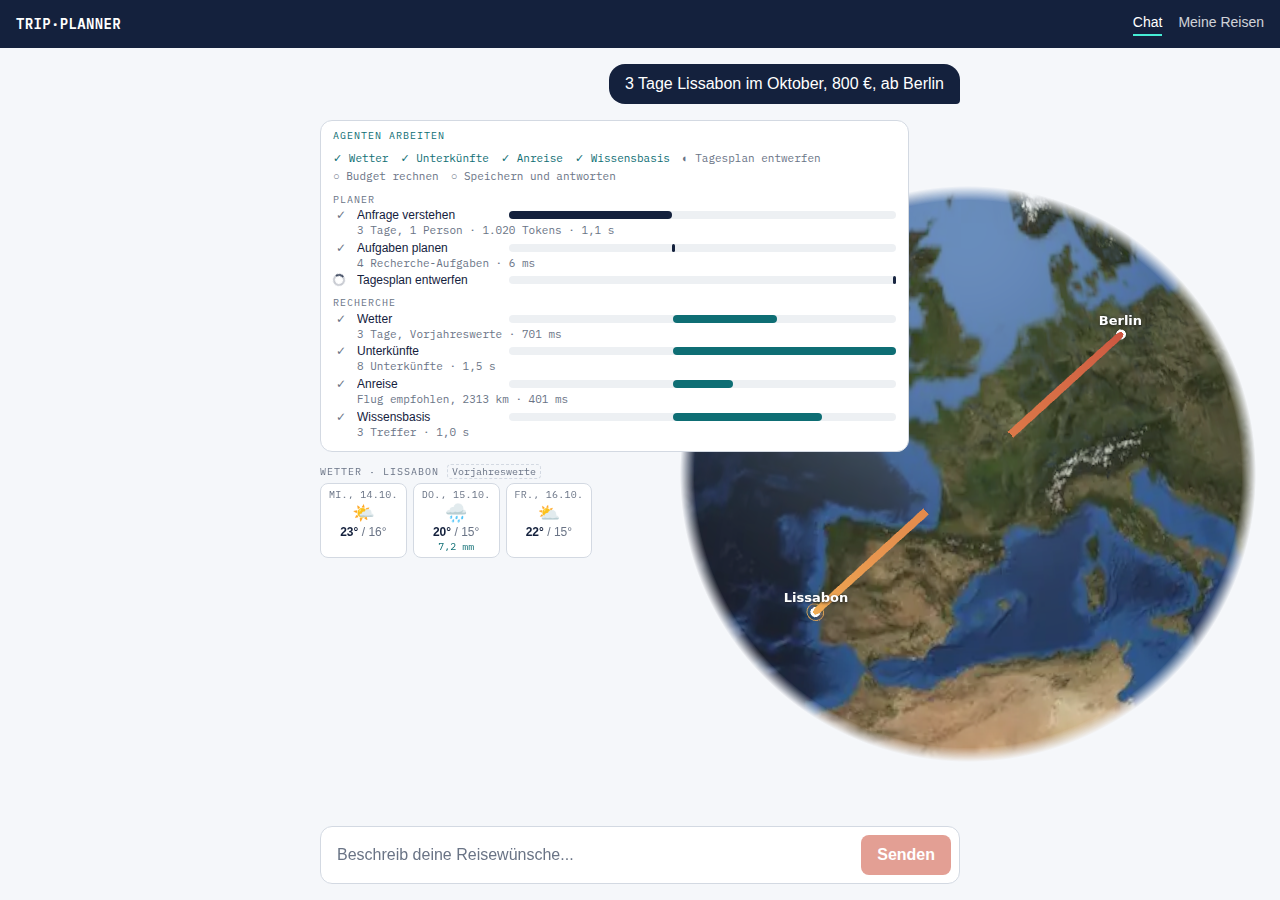
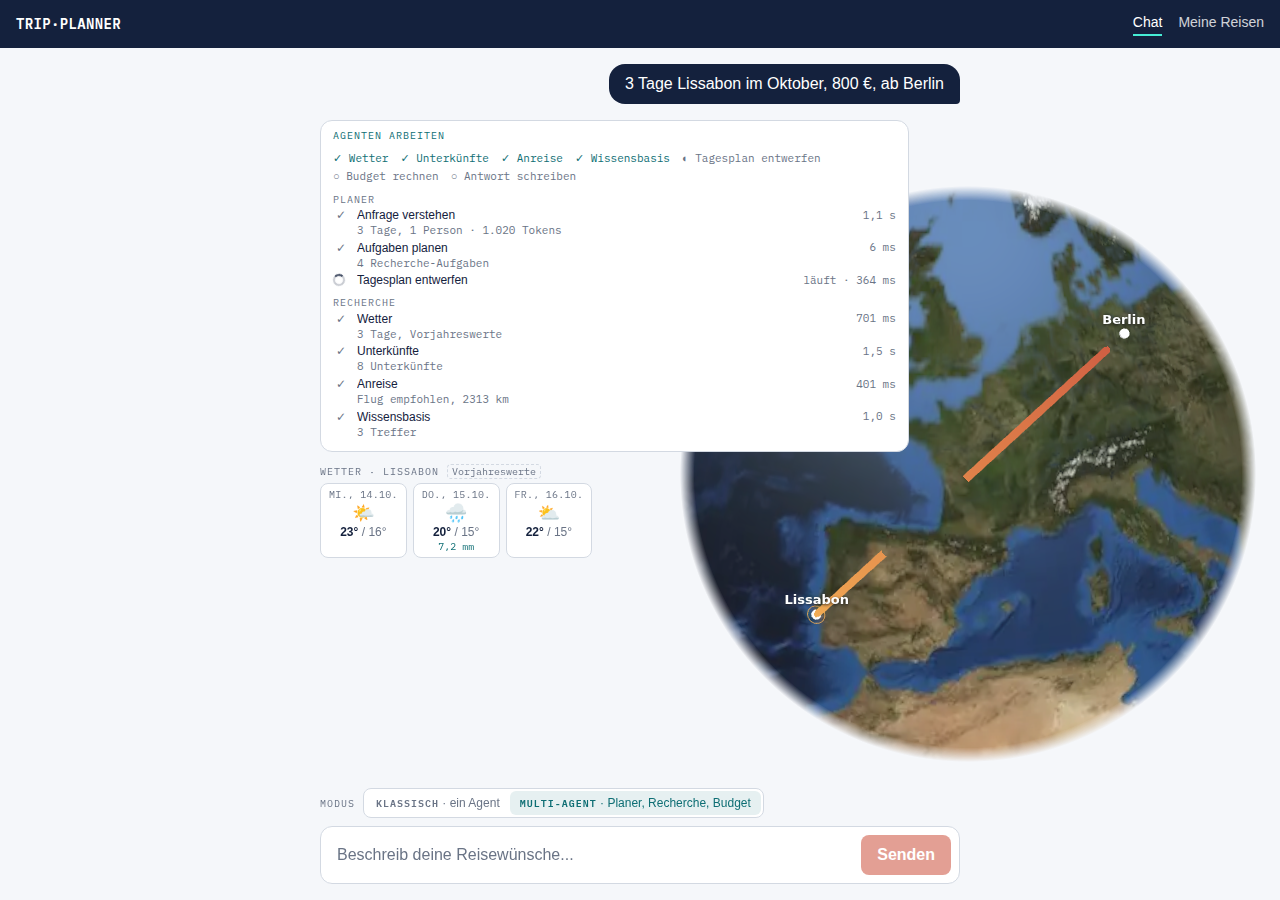
fix(web): Live-Ansicht der Agenten ohne Fortschrittsbalken, mit echter Laufzeit
Die Live-Balken waren relativ zur wachsenden Laufzeit skaliert: Auch
fertige Aufgaben (Wetter nach 0,7 s) schrumpften und rutschten weiter, und
laufende täuschten einen Fortschritt vor, den niemand kennt. Das wirkte
wie eine Simulation. Live zeigt jede Aufgabe jetzt nur Status und echte
Zeit: läuft (Spinner, hochzählende Sekunden) oder fertig (feste Dauer).
Den Wasserfall gibt es weiter im eingeklappten Ablauf nach dem Lauf, wo
er sich nicht mehr ändert.

Claude-Session: https://claude.ai/code/session_018TV5r7TAR1UubrmDdnqWhx

diff --git a/apps/web/src/components/trace-panel.tsx b/apps/web/src/components/trace-panel.tsx
@@ -101,19 +101,33 @@ const AGENT_BAR_COLORS: Record<AgentName, string> = {
   budget: 'bg-amber-500',
 };
 
-function barDetails(bar: LaneBar) {
+// Live steht die Dauer rechts in der Zeile, im Ablauf hier in den Details
+function barDetails(bar: LaneBar, withDuration = true) {
   const parts: string[] = [];
   if (bar.step.summary) parts.push(bar.step.summary);
   if (bar.tokens > 0) parts.push(`${numberFormat.format(bar.tokens)} Tokens`);
-  if (bar.step.durationMs !== undefined) parts.push(formatMs(bar.step.durationMs));
+  if (withDuration && bar.step.durationMs !== undefined) parts.push(formatMs(bar.step.durationMs));
   return parts.join(' · ');
 }
 
-// Wasserfall im Multi-Agenten-Modus: eine Lane pro Agent, ein Balken pro
-// Aufgabe, relativ zur Laufzeit. Die Recherche-Aufgaben laufen gleichzeitig
-// und stehen deshalb als überlappende Balken untereinander.
-function AgentLanes({ run, nowMs }: { run: RunState; nowMs?: number }) {
+// Multi-Agenten-Modus: eine Lane pro Agent, eine Zeile pro Aufgabe.
+// Live zeigt jede Zeile nur, was wir wirklich wissen: läuft (mit hochzählender
+// Zeit) oder fertig (mit ihrer Dauer). Einen Fortschrittsbalken gibt es live
+// bewusst nicht: Wie weit ein KI-Aufruf ist, kennt niemand, und ein relativ
+// zur wachsenden Laufzeit skalierter Balken würde auch fertige Aufgaben
+// weiter schrumpfen lassen. Nach dem Lauf, wenn sich nichts mehr ändert,
+// zeigt der Ablauf den Wasserfall: gleichzeitige Recherchen überlappen.
+function AgentLanes({
+  run,
+  nowMs,
+  live = false,
+}: {
+  run: RunState;
+  nowMs?: number;
+  live?: boolean;
+}) {
   const { lanes } = agentLanes(run, nowMs);
+  const now = Math.max(run.lastMs, nowMs ?? 0);
   if (lanes.length === 0) return null;
   return (
     <div className="space-y-2 py-1" aria-label="Agenten">
@@ -136,14 +150,26 @@ function AgentLanes({ run, nowMs }: { run: RunState; nowMs?: number }) {
                   <span className={`w-36 shrink-0 truncate ${bar.step.status === 'error' ? 'text-stamp' : ''}`}>
                     {TASK_LABELS[bar.step.task] ?? bar.step.task}
                   </span>
-                  <span className="relative h-2 flex-1 rounded-full bg-rule/40">
-                    <span
-                      className={`absolute top-0 h-2 rounded-full transition-[left,width] duration-150 ease-linear motion-reduce:transition-none ${bar.step.status === 'error' ? 'bg-stamp' : AGENT_BAR_COLORS[lane.agent]} ${bar.step.status === 'running' ? 'animate-pulse' : ''}`}
-                      style={{ left: `${bar.leftPct}%`, width: `${bar.widthPct}%` }}
-                    />
-                  </span>
+                  {live ? (
+                    <span className="ml-auto shrink-0 font-mono text-[11px] tabular-nums text-dim">
+                      {bar.step.status === 'running'
+                        ? `läuft · ${formatMs(Math.max(0, Math.round(now - bar.step.startedMs)))}`
+                        : bar.step.durationMs !== undefined
+                          ? formatMs(bar.step.durationMs)
+                          : ''}
+                    </span>
+                  ) : (
+                    <span className="relative h-2 flex-1 rounded-full bg-rule/40">
+                      <span
+                        className={`absolute top-0 h-2 rounded-full ${bar.step.status === 'error' ? 'bg-stamp' : AGENT_BAR_COLORS[lane.agent]}`}
+                        style={{ left: `${bar.leftPct}%`, width: `${bar.widthPct}%` }}
+                      />
+                    </span>
+                  )}
                 </div>
-                <p className="truncate pl-6 font-mono text-[11px] text-dim">{barDetails(bar)}</p>
+                <p className="truncate pl-6 font-mono text-[11px] text-dim">
+                  {barDetails(bar, !live)}
+                </p>
               </li>
             ))}
           </ol>
@@ -178,15 +204,14 @@ function TaskChecklist({ tasks }: { tasks: PlanTask[] }) {
   );
 }
 
-// Zeittakt der Live-Anzeige: oft genug für flüssige Balken (zusammen mit der
-// CSS-Transition gleicher Länge), selten genug, um nicht jeden Frame neu zu
-// rendern.
+// Zeittakt der Live-Anzeige: oft genug, dass die Laufzeit laufender Aufgaben
+// sichtbar hochzählt, selten genug, um nicht jeden Frame neu zu rendern.
 const CLOCK_TICK_MS = 150;
 
 // Zwischen zwei Ereignissen schickt der Server nichts, ein KI-Aufruf dauert
-// aber Sekunden. Ohne eigene Uhr stünden die Balken so lange still und
-// sprängen beim nächsten Ereignis nach vorn. Die Uhr rechnet deshalb ab dem
-// Moment, in dem das letzte Ereignis im Browser ankam, selbst weiter.
+// aber Sekunden. Damit die Laufzeit laufender Aufgaben trotzdem hochzählt,
+// rechnet diese Uhr ab dem Moment, in dem das letzte Ereignis im Browser
+// ankam, selbst weiter.
 function useRunClock(run: RunState, active: boolean): number {
   const anchor = useRef({ lastMs: run.lastMs, receivedAt: 0 });
   const [nowMs, setNowMs] = useState(run.lastMs);
@@ -208,12 +233,20 @@ function useRunClock(run: RunState, active: boolean): number {
 }
 
 // Classic: eine Zeile pro LLM-Aufruf oder Tool. Multi: Aufgaben und Lanes.
-function StepsView({ run, nowMs }: { run: RunState; nowMs?: number }) {
+function StepsView({
+  run,
+  nowMs,
+  live = false,
+}: {
+  run: RunState;
+  nowMs?: number;
+  live?: boolean;
+}) {
   if (run.agentSteps.length > 0) {
     return (
       <>
         <TaskChecklist tasks={run.tasks} />
-        <AgentLanes run={run} nowMs={nowMs} />
+        <AgentLanes run={run} nowMs={nowMs} live={live} />
       </>
     );
   }
@@ -299,7 +332,7 @@ export default function TracePanel({
         {run.steps.length === 0 && run.agentSteps.length === 0 ? (
           <StartingHint />
         ) : (
-          <StepsView run={run} nowMs={nowMs} />
+          <StepsView run={run} nowMs={nowMs} live />
         )}
       </div>
     );

diff --git a/apps/web/src/lib/agent-lanes.ts b/apps/web/src/lib/agent-lanes.ts
@@ -47,9 +47,8 @@ const MIN_WIDTH_PCT = 0.8;
 // Der Wasserfall als reine Funktion: Jeder Agent eine Lane, jeder Schritt
 // ein Balken relativ zur Laufzeit. Laufende Schritte reichen bis "jetzt".
 // Ohne nowMs ist das der Zeitpunkt des letzten Ereignisses (lastMs); die
-// Live-Anzeige übergibt eine im Browser weiterlaufende Uhr, damit die Balken
-// auch dann wachsen, wenn gerade kein Ereignis kommt (ein KI-Aufruf dauert
-// Sekunden). Ist der Lauf vorbei, zählt nur lastMs.
+// Live-Anzeige übergibt eine im Browser weiterlaufende Uhr (ein KI-Aufruf
+// dauert Sekunden ohne Ereignis). Ist der Lauf vorbei, zählt nur lastMs.
 // Gleichzeitige Recherche-Schritte liegen als eigene Zeilen übereinander
 // und überlappen zeitlich.
 export function agentLanes(
